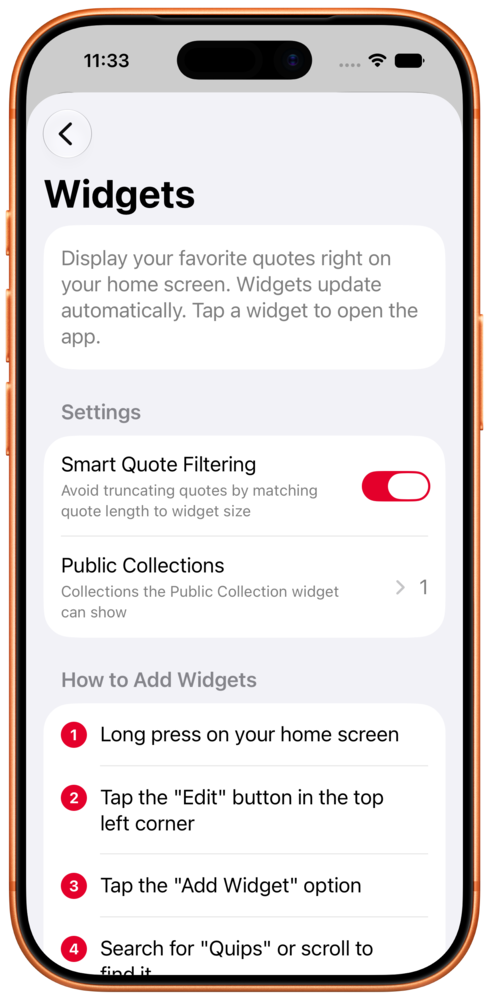
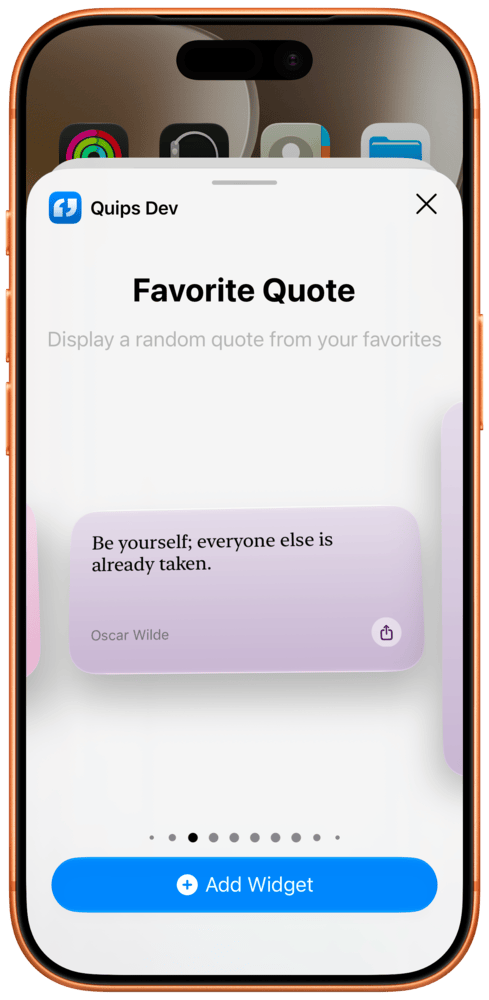
Reorder gallery, fix load scroll position, add framed widget shots
- Move Quote Style to just before Widgets in the screenshots gallery
- Fix the gallery starting scrolled to the 2nd image: justify-content
  center + overflow-x auto pushed the first image off the left edge on
  load. Use "safe center" so it centers when the row fits but left-aligns
  (showing "Your Quotes") when it overflows.
- Replace the widget gallery images with framed captures of the iOS
  Add Widget gallery (489x1000, device bezel), matching the other shots

diff --git a/css/styles.css b/css/styles.css
@@ -471,7 +471,10 @@ a {
 
 .screenshots-gallery {
     display: flex;
-    justify-content: center;
+    /* "safe center" centers the row when it fits, but falls back to flex-start
+       when it overflows — otherwise plain centering pushes the first image off
+       the left edge and it can't be scrolled into view on load. */
+    justify-content: safe center;
     gap: 1.5rem;
     overflow-x: auto;
     padding: 1rem 0;